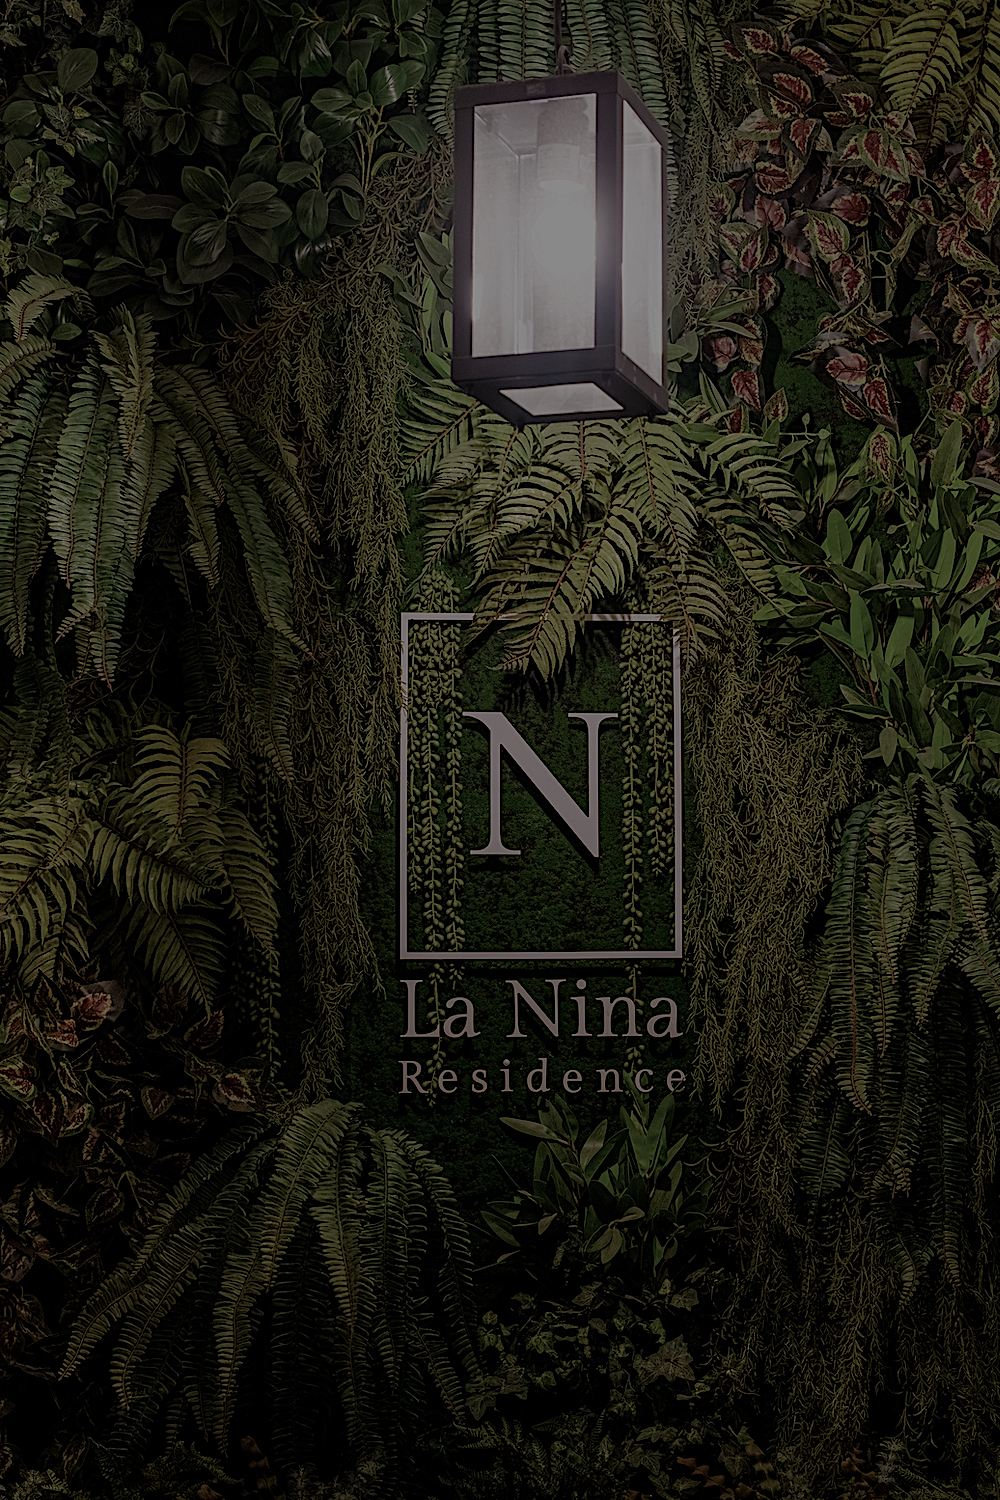
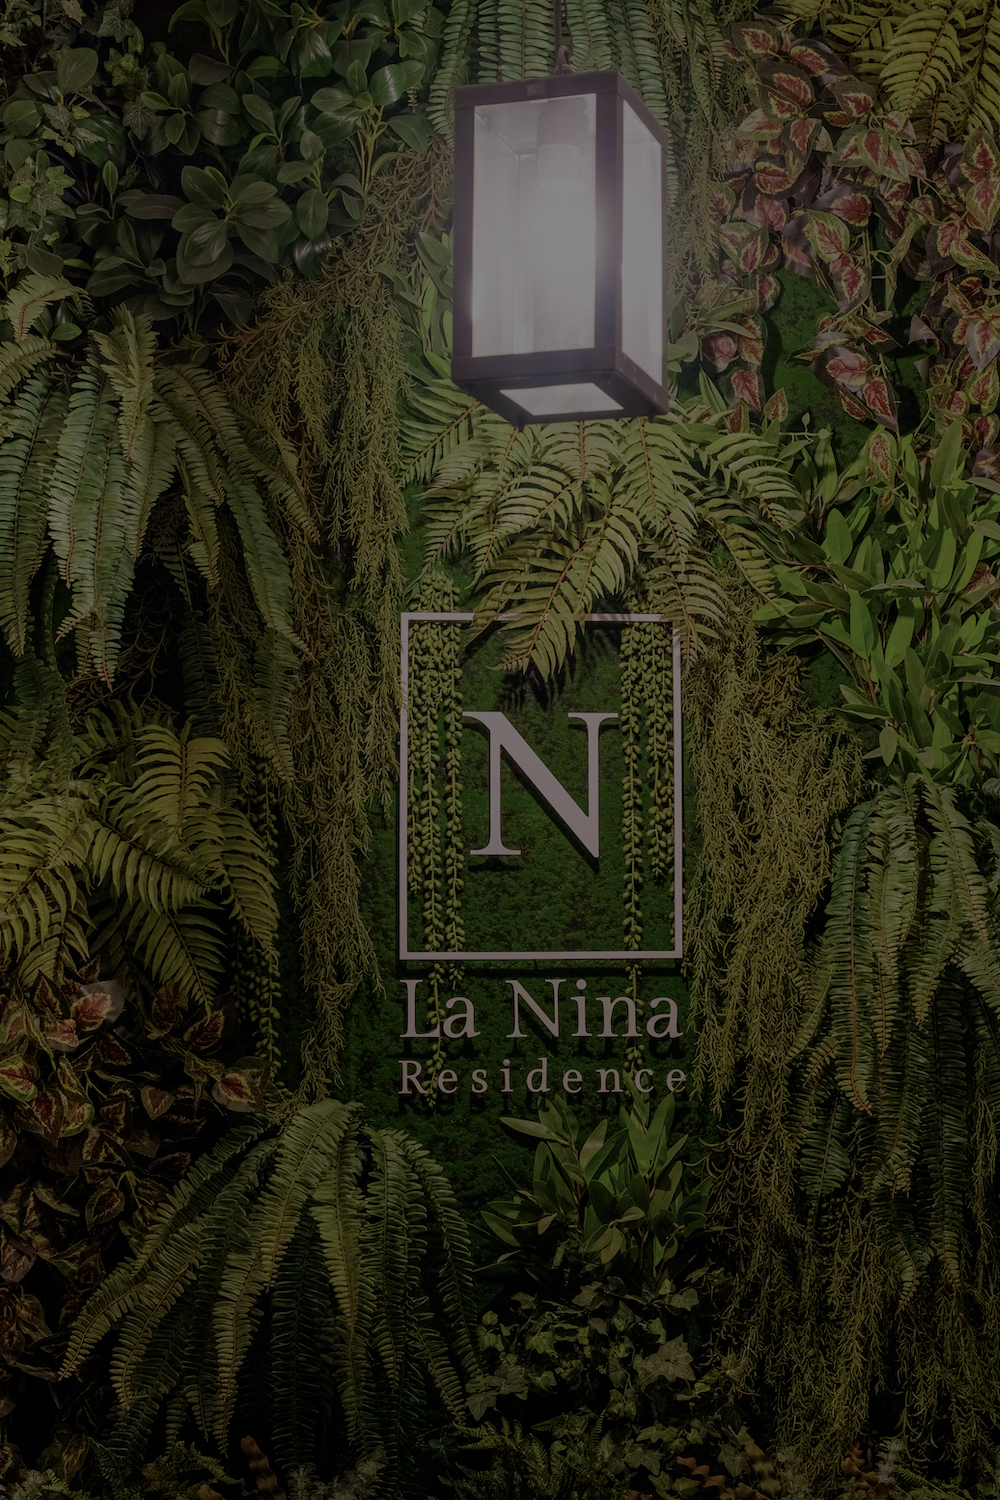
restyle residence article

diff --git a/src/articles/Residence/style.js b/src/articles/Residence/style.js
@@ -5,9 +5,7 @@ const styleParagraph = {
   maxWidth: `${1000 / 18}em`,
   boxSizing: 'border-box',
   boxShadow: '-50px 50px 100px 20px rgba(243, 231, 219, .2)',
-  lineHeight: `${30 / 18}em`,
-  fontWeight: 500,
-  color: 'rgba(0, 0, 0, .65)'
+  lineHeight: `${30 / 18}em`
 }
 export default {
   backgroundImage: 'url(' + GREEN_LANINA_JPG + ')',
@@ -16,5 +14,6 @@ export default {
   transform: 'scale(.9)',
   backgroundRepeat: 'no-repeat',
   backgroundAttachment: 'fixed',
+  marginTop: `${150 / 16}em`,
   p: styleParagraph
 }

diff --git a/src/articles/style.js b/src/articles/style.js
@@ -3,9 +3,12 @@ import { cream } from '../colors'
 
 export default {
   // border: '10px solid red',
-  minHeight: `${600 / 16}em`,
+  minHeight: `${700 / 16}em`,
   display: 'flex',
   position: 'relative',
   '> span': { backgroundAttachment: 'fixed' },
-  '> p': { background: cream }
+  '> p': {
+    background: cream,
+    color: 'rgba(0, 0, 0, .35)'
+  }
 }

diff --git a/src/pages/Sololaki/style.js b/src/pages/Sololaki/style.js
@@ -8,8 +8,8 @@ import COVER2_JPG from '../../assets/images/sololaki/coverMobile.jpg'
 import { cream } from '../../colors'
 
 export const styleBanner = {
-  width: `100%`,
-  height: `100%`,
+  minWidth: `100%`,
+  minHeight: `100%`,
   overflow: 'hidden',
   boxSizing: 'border-box',
   position: 'relative',

diff --git a/src/articles/index.js b/src/articles/index.js
@@ -4,8 +4,6 @@ import Apartments from './Apartments'
 import Wine from './Wine'
 import Location from './Location'
 
-import style from './style'
-
 export {
   Residence,
   Apartments,

diff --git a/src/pages/Sololaki/index.js b/src/pages/Sololaki/index.js
@@ -32,6 +32,11 @@ const banner = {
 }
 
 export default {
+  proto: Block,
+  props: {
+    // flexFlow: 'column',
+    // gap: 'F'
+  },
   style,
   state: {
     active: true,

diff --git a/src/articles/Residence/index.js b/src/articles/Residence/index.js
@@ -11,7 +11,7 @@ const paragraph = {
   proto: [Block, bbSololaki],
   props: {
     size: 'B',
-    padding: 'B C'
+    padding: 'D'
   }
 }
 
